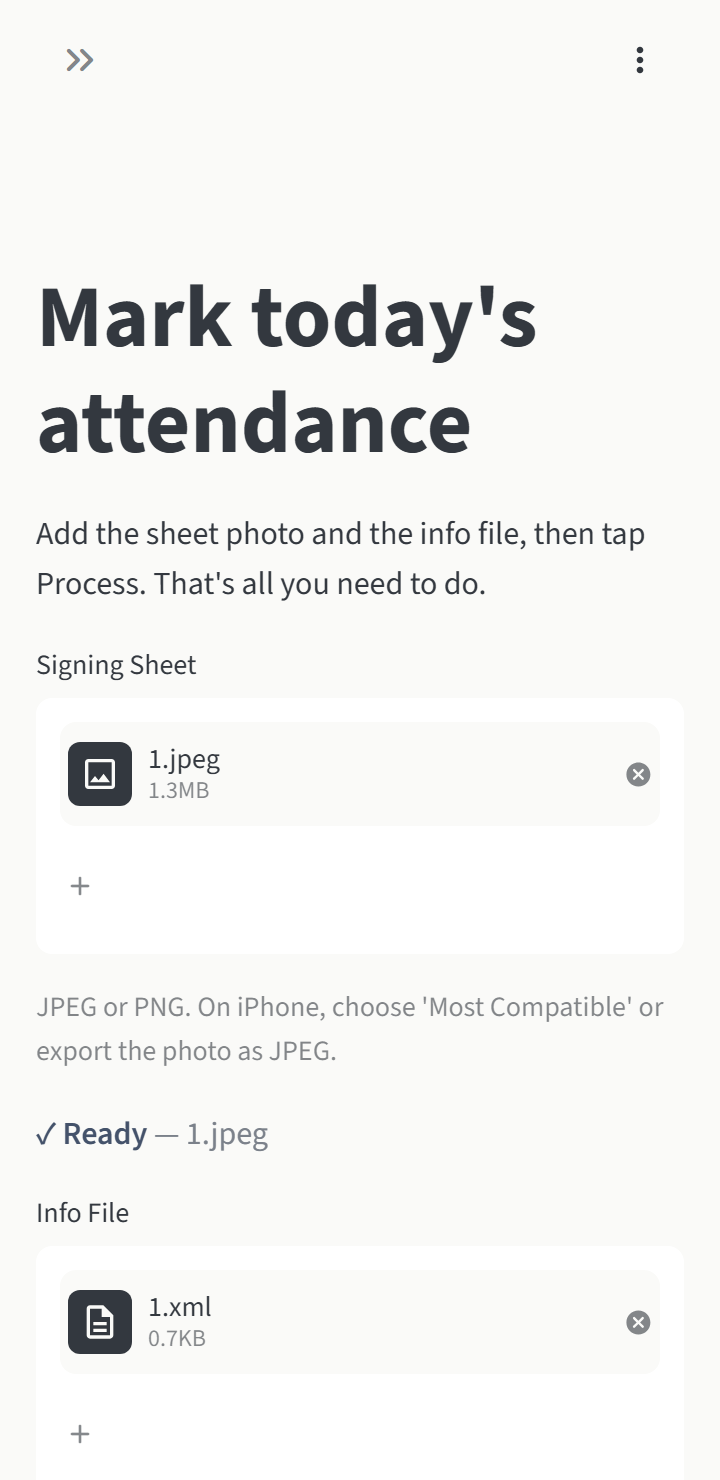
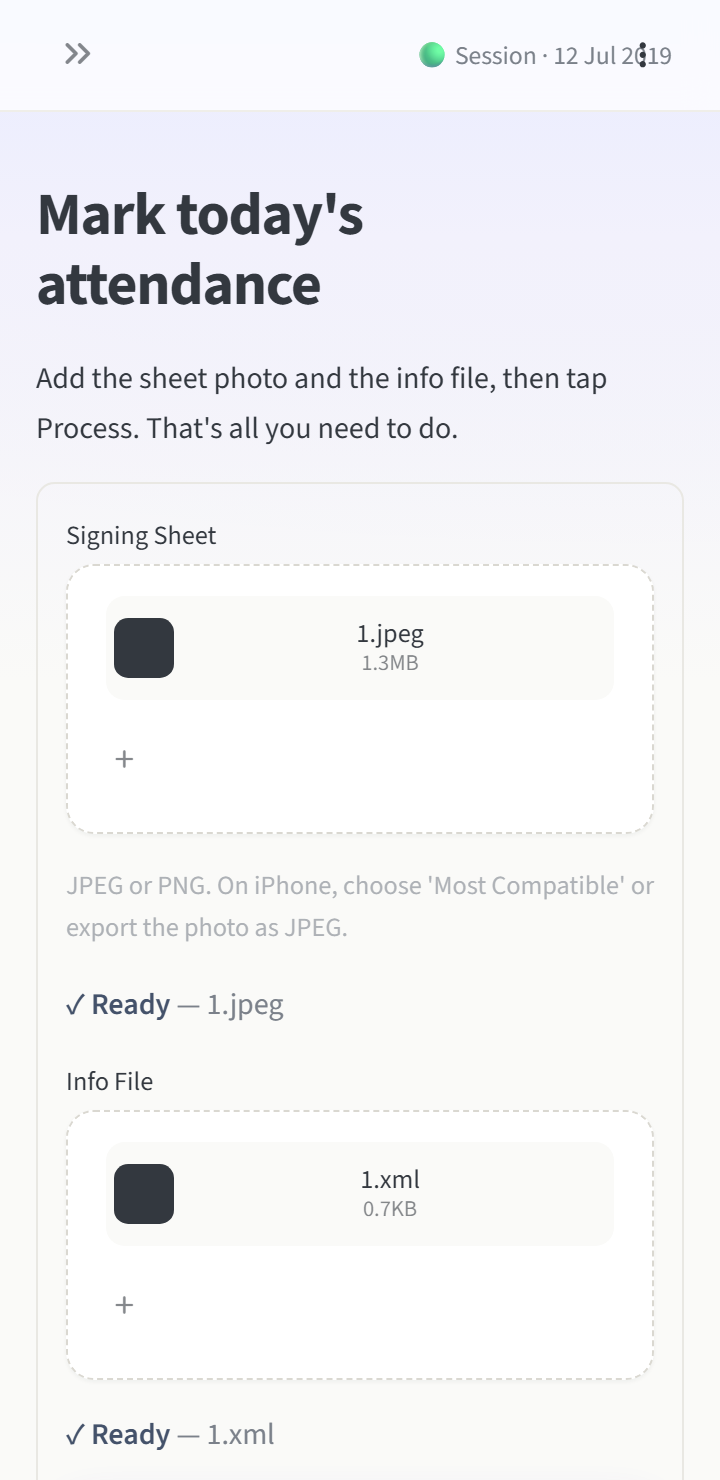
Refresh walkthrough screenshots for the new UI

diff --git a/docs/walkthrough/walkthrough.py b/docs/walkthrough/walkthrough.py
@@ -1,19 +1,22 @@
-"""Story 4.7 DoD browser walkthrough: real Chromium against the live app.
+"""Browser walkthrough for the report: real Chromium against the live app
+(five-page shell, SAMS design).
 
-Desktop (1440x900) + phone (360x740): upload the real sheet photo + info.xml,
-tap Process, watch the strip, read the results; Lookup + Investigate for 001.
-Screenshots land in docs/walkthrough/ for the report; horizontal-scroll checks
-run at 360px on every page (DoD: no core-flow horizontal scroll).
+Desktop (1440x900) + phone (360x740): the Dashboard landing, the Process flow
+(upload the real sheet photo + info.xml, tap Process, watch the strip, read
+the results), Session history, Lookup + Investigate for 001. Screenshots land
+in docs/walkthrough/ for the report; horizontal-scroll checks run at 360px on
+every page (DoD: no core-flow horizontal scroll).
+
+Run with the app up first:  streamlit run webui/app.py  (from the project root)
 """
 
 import sys
-import time
 from pathlib import Path
 
 from playwright.sync_api import expect, sync_playwright
 
-BASE = "http://localhost:8615"
-ROOT = Path(r"C:\dev\CGV Group Assignment")
+BASE = "http://localhost:8501"
+ROOT = Path(__file__).resolve().parent.parent.parent
 SHOTS = ROOT / "docs" / "walkthrough"
 SHOTS.mkdir(parents=True, exist_ok=True)
 SHEET = ROOT / "sample_signin-sheets" / "1.jpeg"
@@ -33,10 +36,30 @@ def no_hscroll(page, label):
     check(f"no horizontal scroll — {label}", sw <= iw + 1, f"scrollWidth={sw} innerWidth={iw}")
 
 
-def process_flow(page, shot_prefix):
+def nav_url(page, text):
+    """Discover the real st.navigation URL for a page from the sidebar links."""
+    links = page.locator("[data-testid='stSidebarNav'] a")
+    for i in range(links.count()):
+        if text.lower() in (links.nth(i).inner_text() or "").lower():
+            return links.nth(i).get_attribute("href")
+    return None
+
+
+def dashboard_flow(page, shot_prefix):
     page.goto(BASE, wait_until="networkidle")
+    page.wait_for_selector("h1:has-text('Dashboard')", timeout=30000)
+    page.wait_for_selector("text=students on roster", timeout=30000)
+    page.wait_for_timeout(1500)  # signature alerts settle
+    page.screenshot(path=str(SHOTS / f"{shot_prefix}-1-dashboard.png"), full_page=True)
+    body = page.locator("body").inner_text()
+    check(f"{shot_prefix}: dashboard tiles shown", "average attendance" in body)
+    check(f"{shot_prefix}: quick actions shown", "QUICK ACTIONS" in body)
+
+
+def process_flow(page, shot_prefix):
+    url = nav_url(page, "Mark today") or f"{BASE}/Process"
+    page.goto(url, wait_until="networkidle")
     page.wait_for_selector("h1:has-text('Mark today')", timeout=30000)
-    page.screenshot(path=str(SHOTS / f"{shot_prefix}-1-landing.png"), full_page=True)
 
     inputs = page.locator("input[type='file']")
     expect(inputs).to_have_count(2, timeout=15000)
@@ -46,7 +69,7 @@ def process_flow(page, shot_prefix):
     page.wait_for_timeout(2500)  # second Ready + eager parse rerun
     page.screenshot(path=str(SHOTS / f"{shot_prefix}-2-ready.png"), full_page=True)
 
-    process = page.get_by_role("button", name="Process")
+    process = page.get_by_role("button", name="Process", exact=True)
     expect(process).to_be_enabled(timeout=15000)
     process.click()
     # The stage strip is the loading state; the run takes ~20-40s server-side.
@@ -59,13 +82,15 @@ def process_flow(page, shot_prefix):
     check(f"{shot_prefix}: chips carry icon+label", ("✓ Present" in body) or ("✕ Absent" in body))
 
 
-def nav_url(page, text):
-    """Discover the real st.navigation URL for a page from the sidebar links."""
-    links = page.locator("[data-testid='stSidebarNav'] a")
-    for i in range(links.count()):
-        if text.lower() in (links.nth(i).inner_text() or "").lower():
-            return links.nth(i).get_attribute("href")
-    return None
+def history_flow(page, shot_prefix):
+    url = nav_url(page, "Session history") or f"{BASE}/History"
+    page.goto(url, wait_until="networkidle")
+    page.wait_for_selector("h1:has-text('Session history')", timeout=30000)
+    page.wait_for_selector("text=ATTENDANCE TREND", timeout=30000)
+    page.wait_for_timeout(1000)
+    page.screenshot(path=str(SHOTS / f"{shot_prefix}-4-history.png"), full_page=True)
+    body = page.locator("body").inner_text()
+    check(f"{shot_prefix}: history sessions listed", "present" in body and "%" in body)
 
 
 def lookup_flow(page, shot_prefix):
@@ -77,7 +102,7 @@ def lookup_flow(page, shot_prefix):
     box.press("Enter")
     page.wait_for_selector("[data-testid='stImage'] img", timeout=60000)  # the timeline chart
     page.wait_for_timeout(2000)
-    page.screenshot(path=str(SHOTS / f"{shot_prefix}-4-lookup.png"), full_page=True)
+    page.screenshot(path=str(SHOTS / f"{shot_prefix}-5-lookup.png"), full_page=True)
     check(f"{shot_prefix}: lookup renders without error tone",
           "Something went wrong" not in page.locator("body").inner_text())
 
@@ -91,7 +116,7 @@ def investigate_flow(page, shot_prefix):
     box.press("Enter")
     page.wait_for_selector("text=/Match|Mismatch|don't have/", timeout=90000)
     page.wait_for_timeout(1500)
-    page.screenshot(path=str(SHOTS / f"{shot_prefix}-5-investigate.png"), full_page=True)
+    page.screenshot(path=str(SHOTS / f"{shot_prefix}-6-investigate.png"), full_page=True)
     body = page.locator("body").inner_text()
     check(f"{shot_prefix}: verdict sentence shown", ("Match" in body) or ("Mismatch" in body))
 
@@ -102,7 +127,9 @@ with sync_playwright() as p:
     # --- Desktop pass (1440x900) ---------------------------------------------
     desktop = browser.new_context(viewport={"width": 1440, "height": 900})
     dpage = desktop.new_page()
+    dashboard_flow(dpage, "desktop")
     process_flow(dpage, "desktop")
+    history_flow(dpage, "desktop")
     lookup_flow(dpage, "desktop")
     investigate_flow(dpage, "desktop")
     desktop.close()
@@ -115,16 +142,25 @@ with sync_playwright() as p:
         device_scale_factor=2,
     )
     ppage = phone.new_page()
+    dashboard_flow(ppage, "phone")
+    no_hscroll(ppage, "phone Dashboard")
     process_flow(ppage, "phone")
     no_hscroll(ppage, "phone Process results")
+    history_flow(ppage, "phone")
+    no_hscroll(ppage, "phone History")
     lookup_flow(ppage, "phone")
     no_hscroll(ppage, "phone Lookup")
     investigate_flow(ppage, "phone")
     no_hscroll(ppage, "phone Investigate")
 
     # Touch-target floor: measure the Process page buttons on phone.
-    ppage.goto(BASE, wait_until="networkidle")
+    purl = nav_url(ppage, "Mark today") or f"{BASE}/Process"
+    ppage.goto(purl, wait_until="networkidle")
     ppage.wait_for_selector("h1:has-text('Mark today')", timeout=30000)
+    # Let the rerun fully settle: Streamlit's transient Stop/status chrome is
+    # not part of SAMS and must not be measured as an app touch target.
+    ppage.wait_for_selector("[data-testid='stStatusWidget']", state="detached", timeout=30000)
+    ppage.wait_for_timeout(1500)
     heights = ppage.eval_on_selector_all(
         "button", "els => els.filter(e => e.offsetParent).map(e => e.getBoundingClientRect().height)"
     )

diff --git a/webui/app.py b/webui/app.py
@@ -175,6 +175,7 @@ st.markdown(
     [data-testid="stFileUploaderDropzone"]:hover { border-color: var(--sams-accent); background: var(--sams-accent-soft); box-shadow: var(--sams-shadow-sm); }
     /* UX-DR14 44px touch floor: uploader Browse buttons + Streamlit nav chrome. */
     [data-testid='stFileUploader'] button, [data-testid='stDownloadButton'] button { min-height: 44px; }
+    [data-testid='stFileUploaderDeleteBtn'] button { min-height: 44px; min-width: 44px; }
     [data-testid='stExpandSidebarButton'] button, [data-testid='stExpandSidebarButton'],
     [data-testid='stMainMenuButton'], [data-testid='stBaseButton-headerNoPadding'] {
         min-height: 44px; min-width: 44px;
